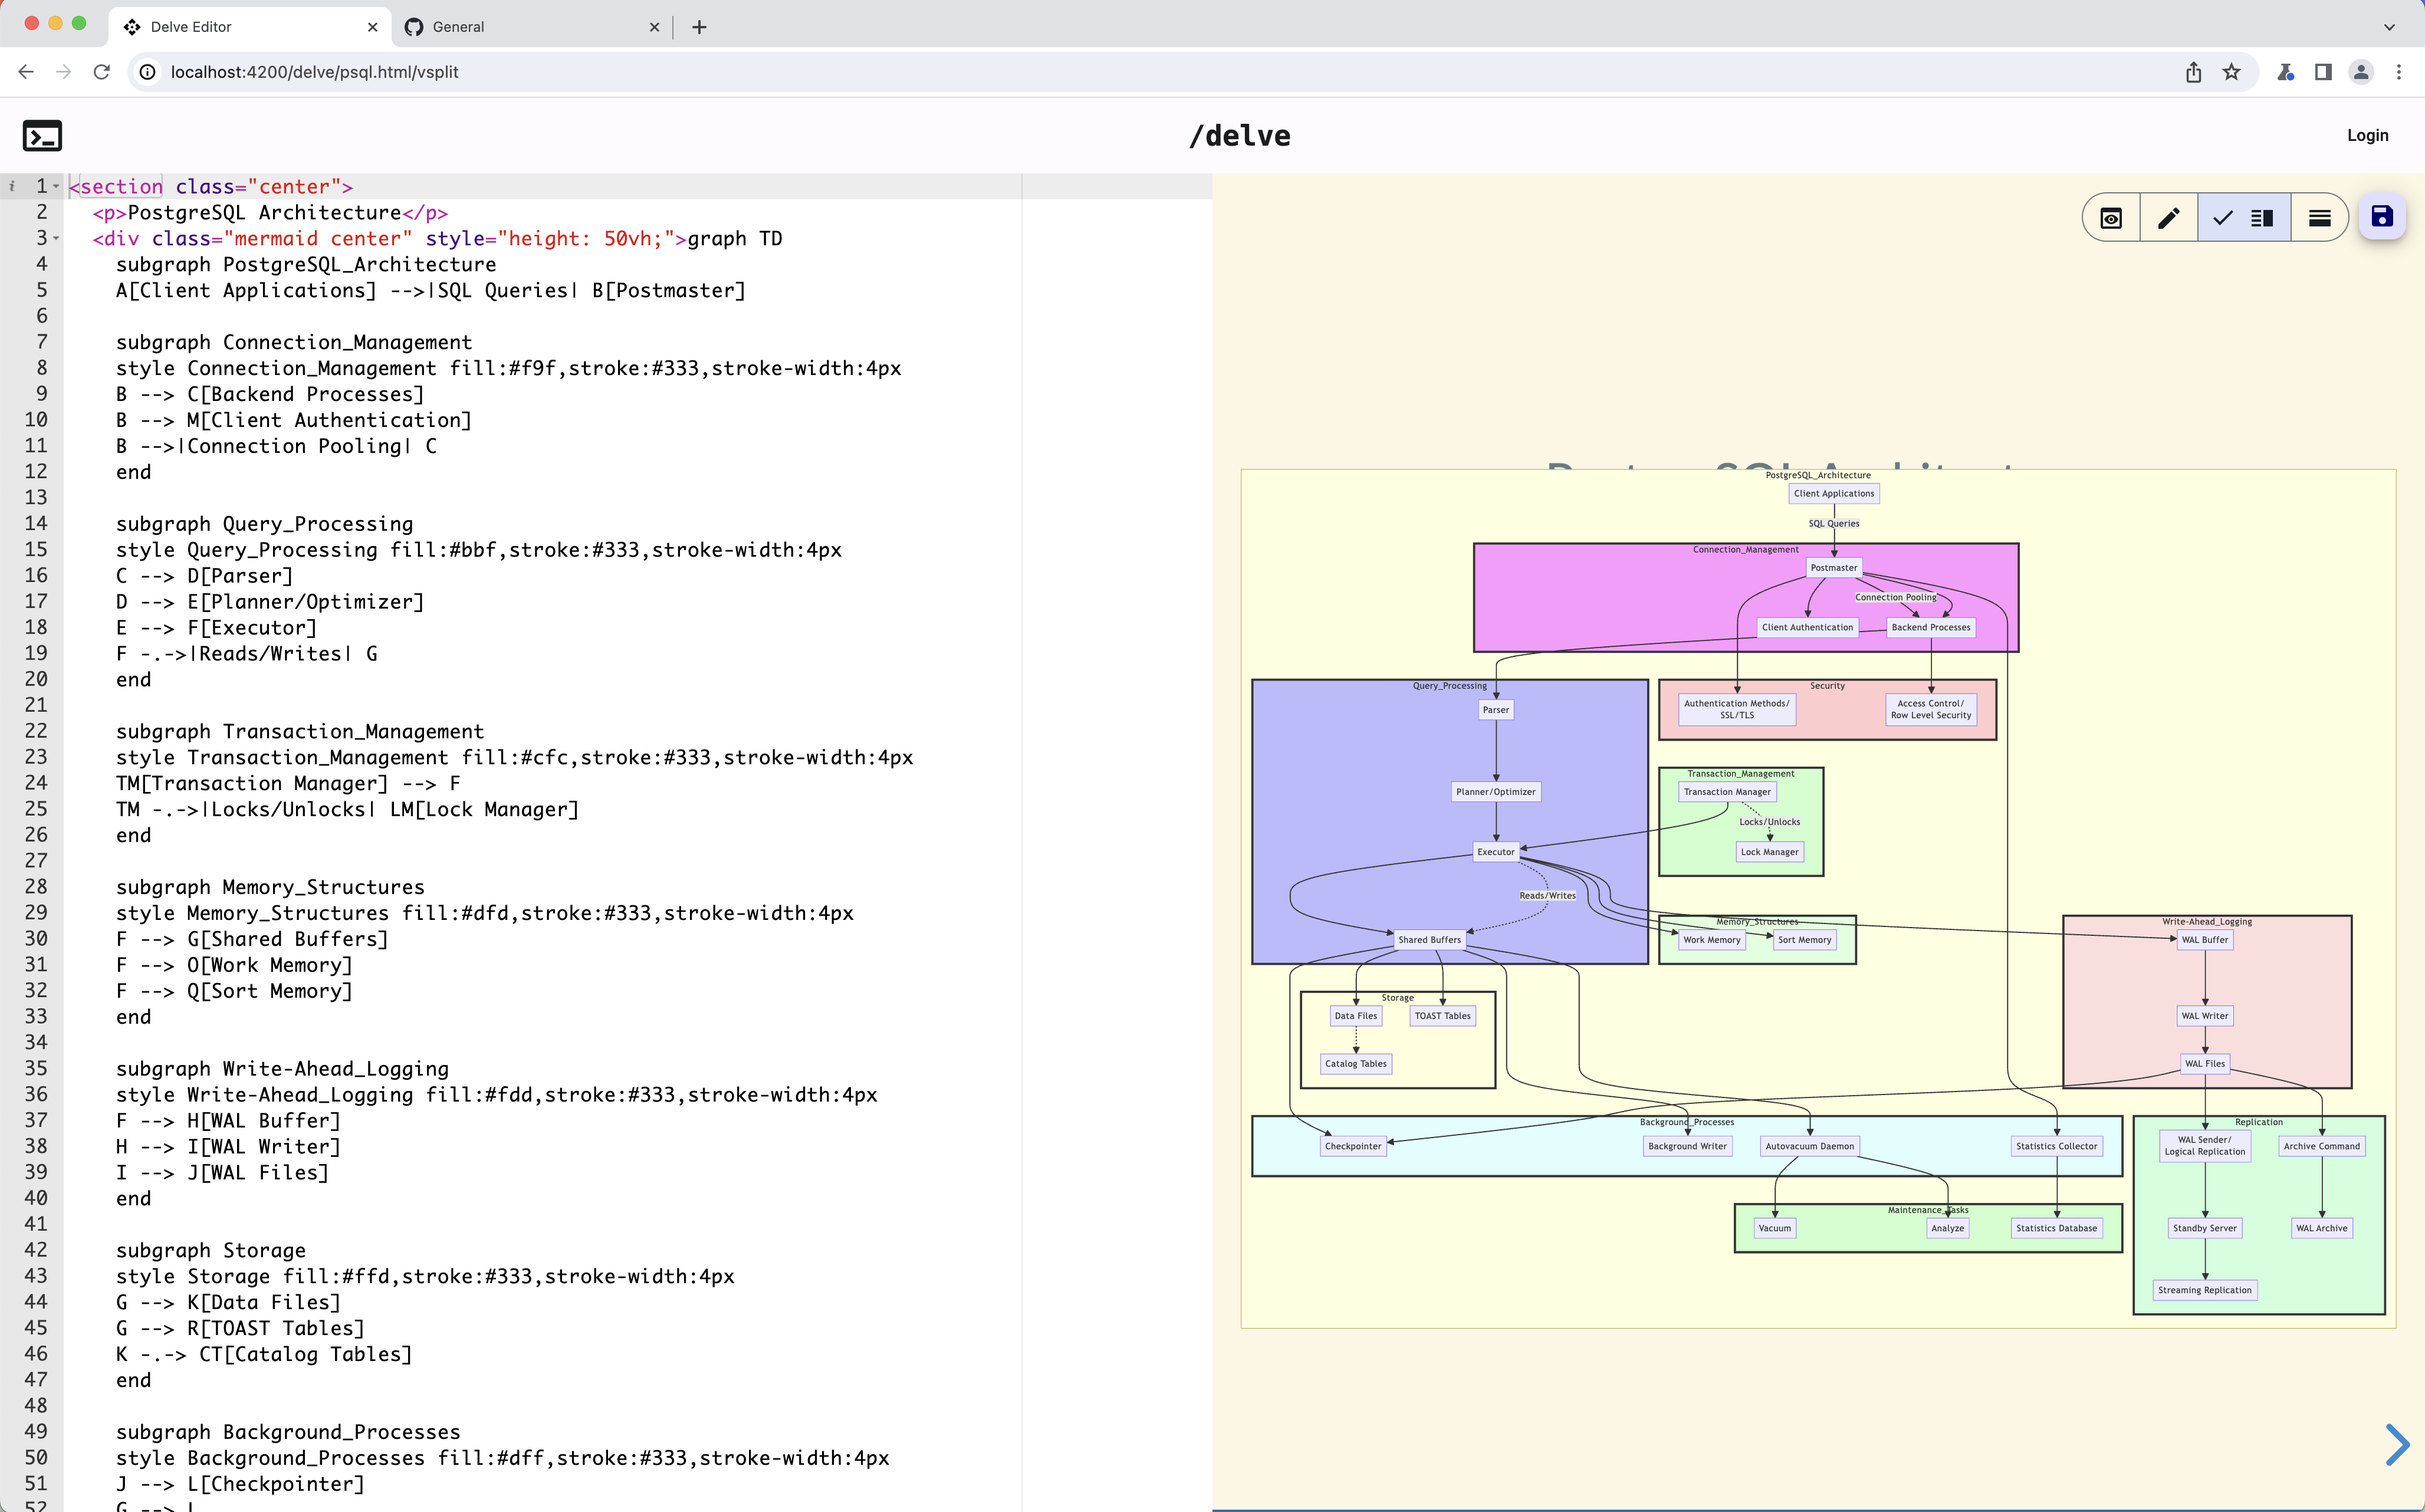
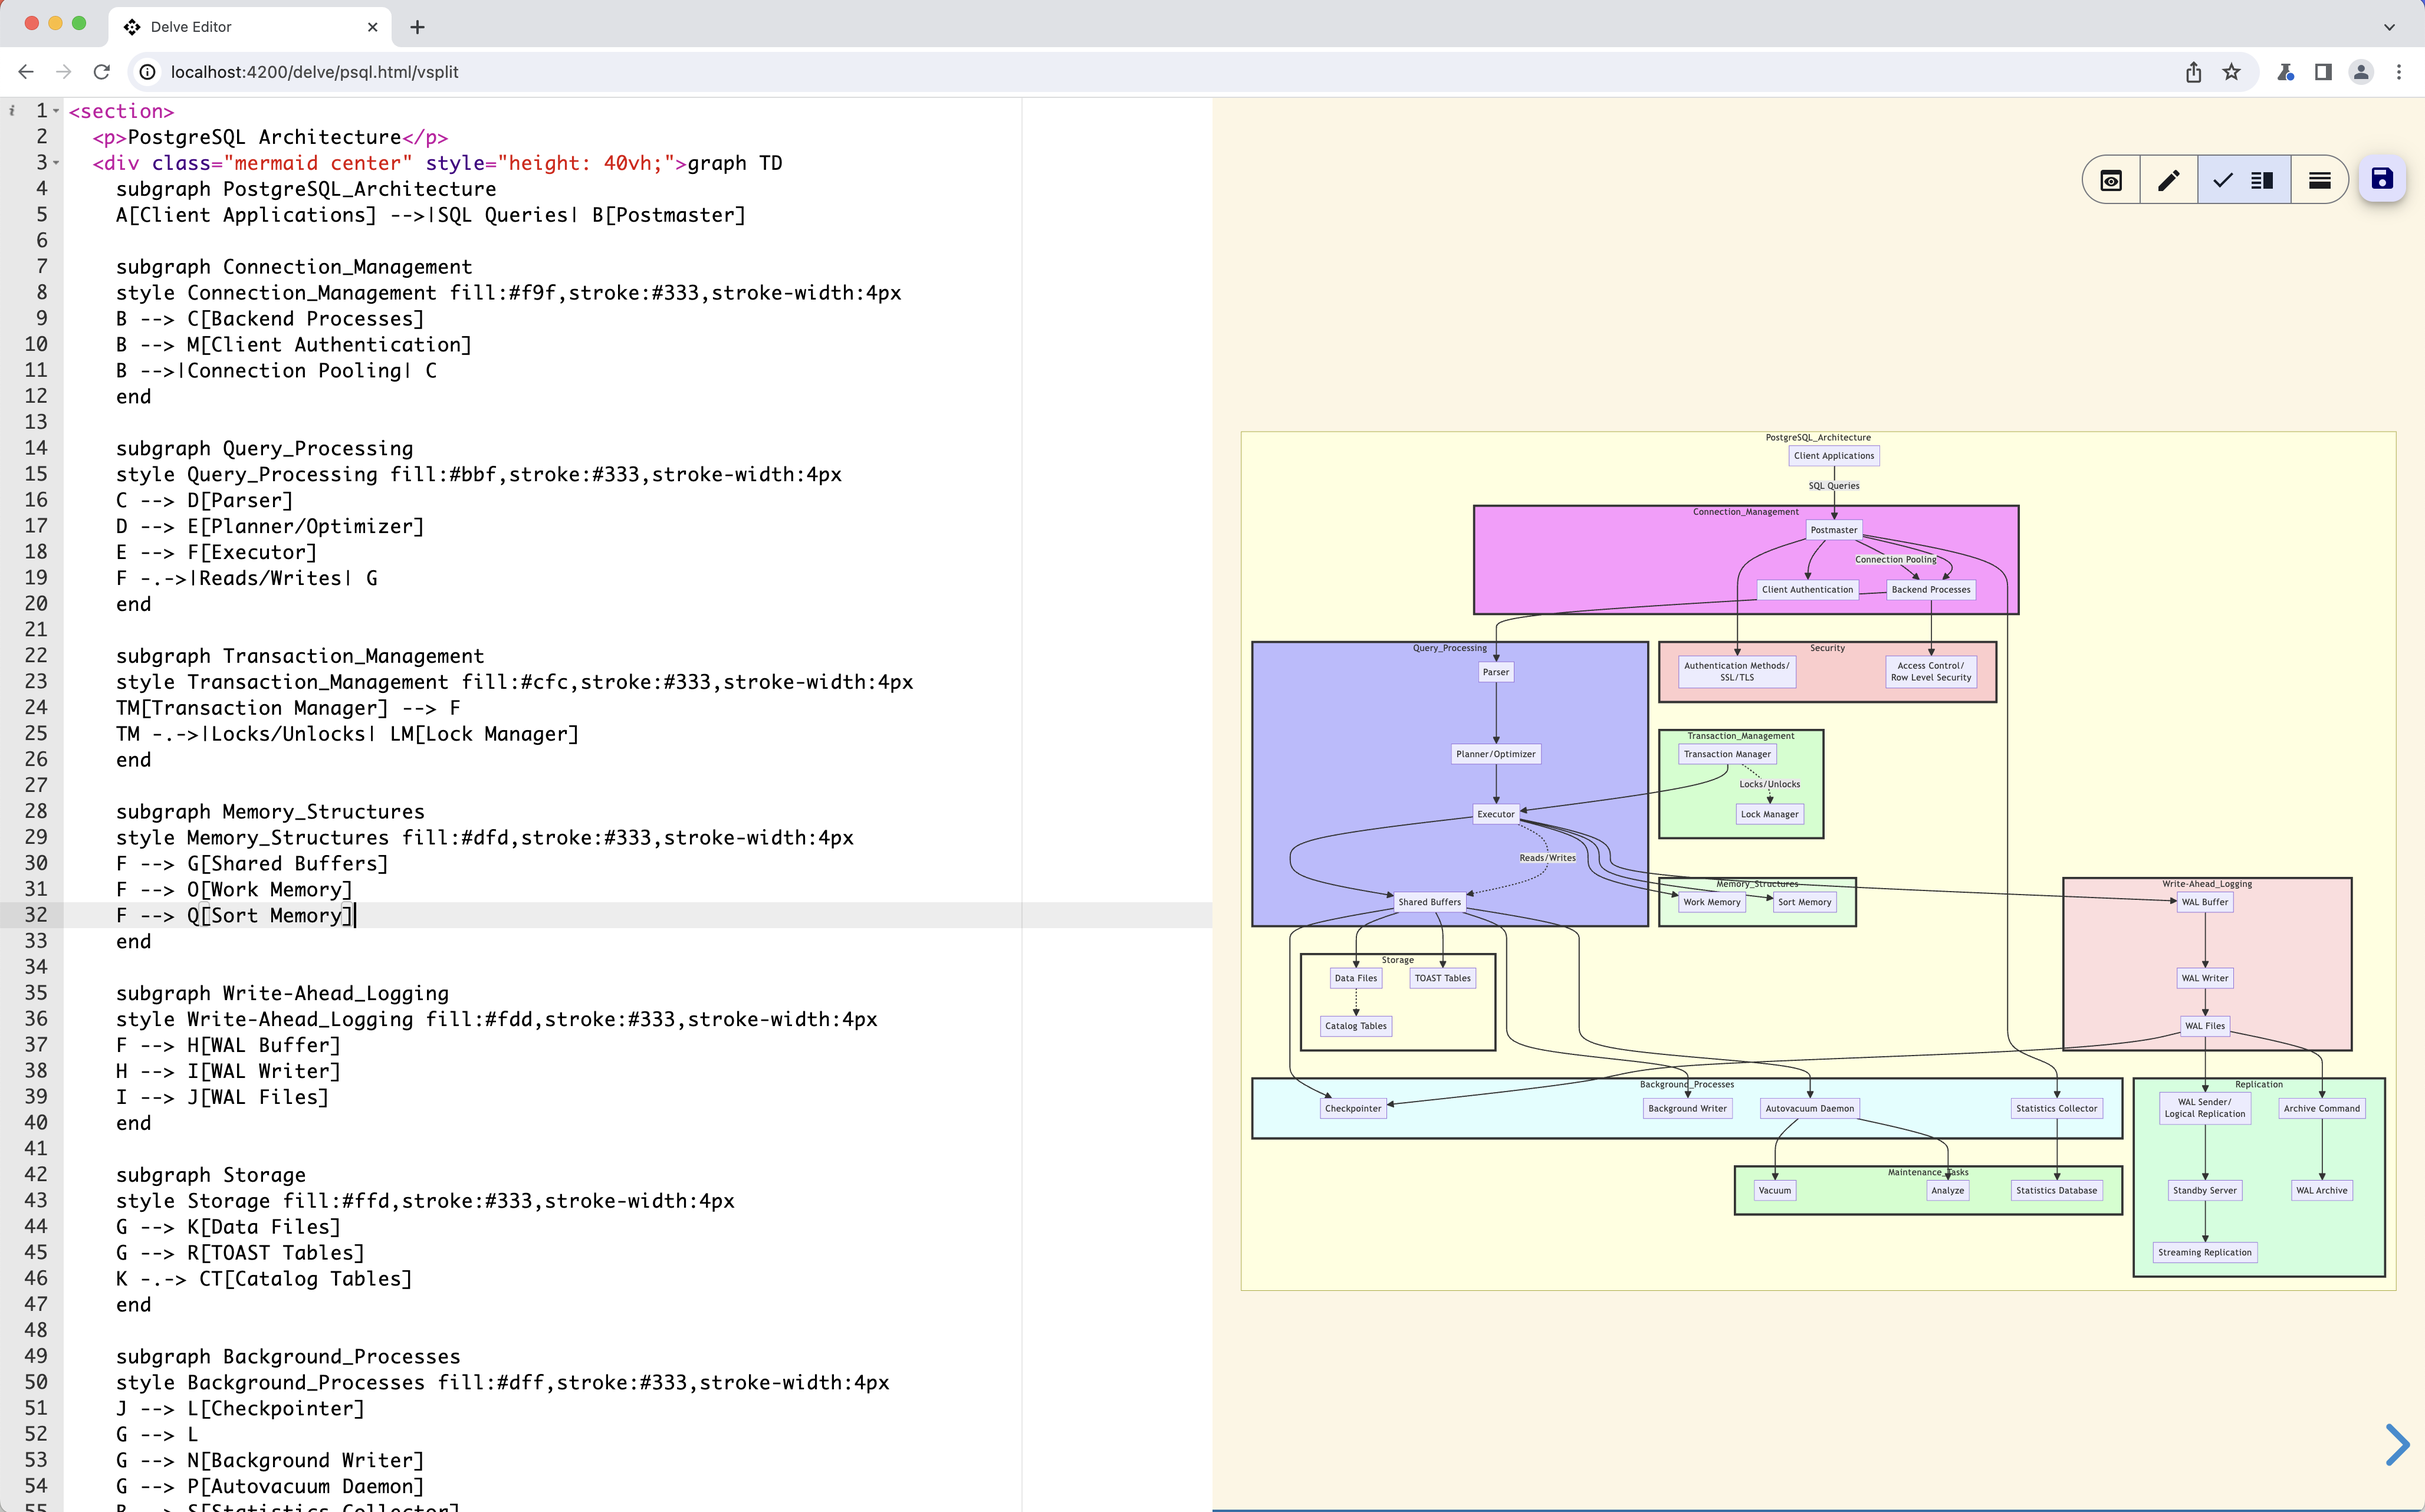
disable nav,set reveal height 100vh

diff --git a/projects/ng-essential/src/lib/reveal/reveal.component.html b/projects/ng-essential/src/lib/reveal/reveal.component.html
@@ -8,7 +8,7 @@
       <mat-button-toggle value="edit" [matTooltip]="modifierKeyPrefix + ' e dit'">
         <mat-icon aria-hidden="false" aria-label="edit">edit</mat-icon>
       </mat-button-toggle>
-      <mat-button-toggle value="vsplit" [matTooltip]="modifierKeyPrefix + ' v ertical_split'">
+      <mat-button-toggle value="vsplit" [matTooltip]="modifierKeyPrefix + ' Shift+V ertical_split'">
         <mat-icon aria-hidden="false" aria-label="vertical_split">vertical_split</mat-icon>
       </mat-button-toggle>
       <mat-button-toggle value="hsplit" [matTooltip]="modifierKeyPrefix + ' h orizontal_split'">

diff --git a/projects/ng-essential/src/lib/reveal/reveal.component.scss b/projects/ng-essential/src/lib/reveal/reveal.component.scss
@@ -1,7 +1,7 @@
 .window-mode-toggle-container {
   position: absolute;
   /* Position the element absolutely within its nearest positioned ancestor */
-  top: 4rem;
+  top: 2rem;
   /* 16px = 4rem (1rem = 4px in Tailwind's default configuration) */
   right: 0;
   /* Position the element at the right edge of its container */
@@ -24,17 +24,17 @@
 }
 
 .h-100 {
-  height: calc(100vh - 4rem);
+  height: calc(100vh);
 }
 
 .h-50 {
-  height: calc(50vh - 2rem);
+  height: calc(50vh);
 }
 
 .w-100 {
-  width: 100%;
+  width: 100vw;
 }
 
 .w-50 {
-  width: 50%;
+  width: 50vw;
 }

diff --git a/src/app/app.routes.ts b/src/app/app.routes.ts
@@ -7,12 +7,12 @@ import { NavComponent } from './shared/components';
  */
 export const routes: Routes = [
   {
-    path: 'home',
+    path: 'demo',
     loadChildren: () => import('./pages/public').then((m) => m.PUBLIC_ROUTES),
   },
   {
     path: '',
-    component: NavComponent,            // top navbar
+    // component: NavComponent,            // top navbar
     children: [
       {
         path: 'delve',

diff --git a/src/app/pages/public/index.ts b/src/app/pages/public/index.ts
@@ -7,7 +7,8 @@ import { NavComponent } from "@app/shared/components";
 
 export const PUBLIC_ROUTES: Routes = [
   {
-    path: '', component: NavComponent,
+    path: '',
+    // component: NavComponent, // 100vh reveal height
     children: [
       { path: 'about-delve', component: AboutComponent },
       { path: 'community', component: CommunityComponent },

diff --git a/src/app/pages/public/home/home.component.ts b/src/app/pages/public/home/home.component.ts
@@ -17,7 +17,7 @@ export class HomeComponent {
   modifierKeyPrefix = this.platformService.modifierKeyPrefix;
 
   content = signal(`
-<section class="center">
+<section>
   <p>PostgreSQL Architecture</p>
   <div class="mermaid center" style="height: 50vh;">graph TD
     subgraph PostgreSQL_Architecture

diff --git a/README.md b/README.md
@@ -8,7 +8,7 @@ If you're reading this, you probably hate the likes of MS Office, and are famili
 
 delve integrates the above tools, and simple a WebDAV server for remote access, in a zero-dependency Go binary with the WebUI, written in [Angular](https://angular.io), embedded in it. It runs on Linux, Windows, macOS, and as container.
 
-## let's `delve` into...
+## let's `delve` in...
 
 ```shell
 git clone https://github.com/edgeflare/delve.git && cd delve
@@ -25,7 +25,7 @@ podman run -p 8080:8080 -v $PWD:/webdav edgeflare/delve --dir=/webdav # or use d
 
 |                                                          |                                                   |
 |----------------------------------------------------------|---------------------------------------------------|
-| ![webdav-resources](./public/img/webdav-resources.png)   | ![postgres-arch](./public/img/postgres-arch.png)  |
+| ![webdav-resources](./public/img/webdav-resources.png)   | ![postgres-arch](./public/img/postgres-arch-mermaid.png)  |
 | ![ace-reveal-vsplit](./public/img/ace-reveal-vsplit.png) | ![echarts-tree](./public/img/echarts-tree.png)    |
 
 ## WebDAV Server
@@ -55,3 +55,11 @@ This is a simple Go WebDAV server implementation using the `golang.org/x/net/web
 
 ## Development/Contributing
 Feel free to chip-in, if you have any ideas, suggestions, or issues, please open an issue or PR.
+
+```shell
+git clone https://github.com/edgeflare/delve.git && cd delve
+npm install && npx ng build ng-essential
+npx nx serve delve
+go mod tidy
+go run .
+```
